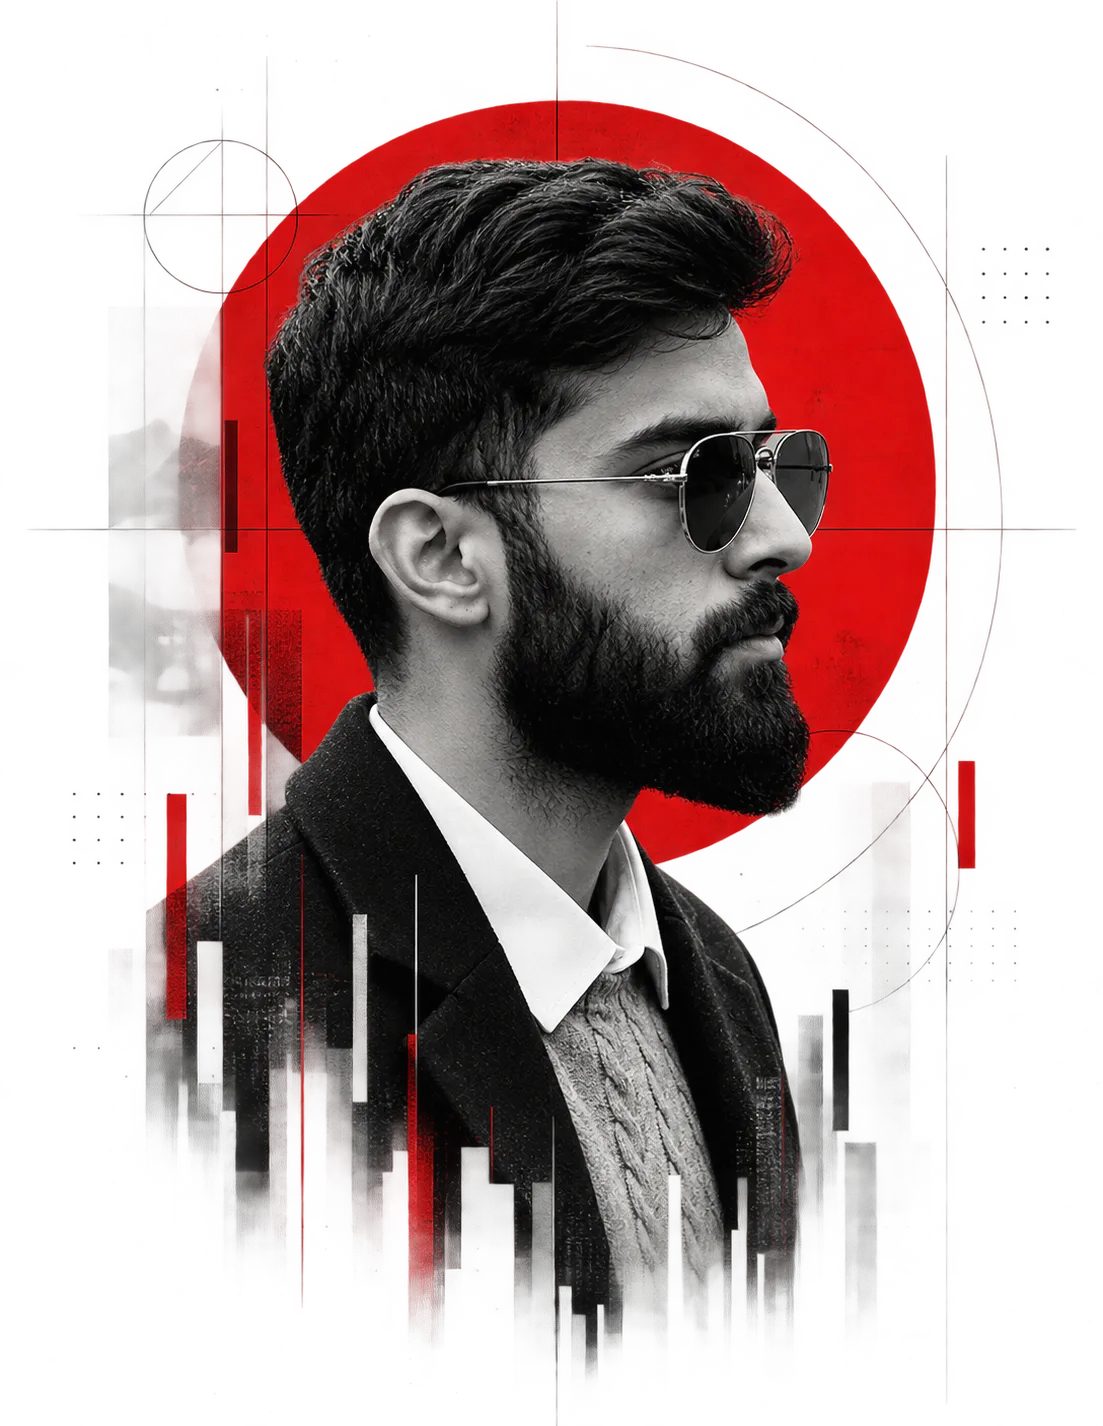
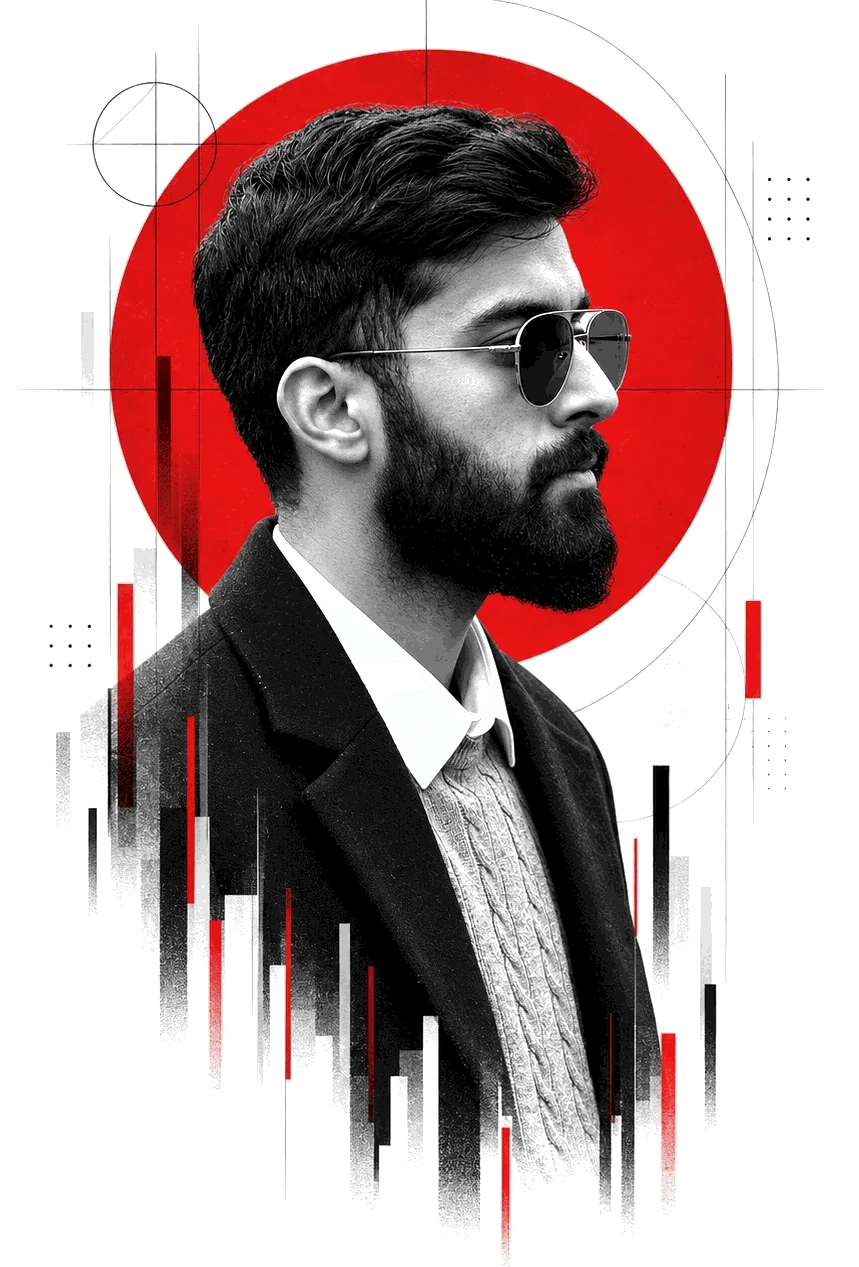
New portrait artwork, with its paper background removed
The original is kept in source/; tools/portrait.py turns the paper into
transparency (colour to alpha), crops to the figure and reports the sun's
centre, which the opening animation now starts from.

diff --git a/docs/style.css b/docs/style.css
@@ -78,7 +78,7 @@ h1, h2, h3 { margin: 0; font-weight: inherit; }
 @keyframes gather { from { opacity: 0; transform: translateX(calc(var(--o) * .5em)); } to { opacity: 1; transform: translateX(0); } }
 .credits { display: flex; flex-wrap: wrap; justify-content: center; align-items: center; gap: 6px 14px; margin-top: 18px; }
 .credits i { font-family: var(--cond); font-size: 12px; font-style: normal; color: #6B6862; }
-@media (max-width: 700px) {
+@media (max-width: 900px) {
   .credits { gap: 6px 22px; }
   .credits i { display: none; }
 }
@@ -88,7 +88,7 @@ h1, h2, h3 { margin: 0; font-weight: inherit; }
 .poster { display: flex; flex-wrap: wrap; justify-content: center; gap: 24px 16px; margin-top: 20px; }
 .poster__say { flex: 1 1 200px; display: flex; flex-direction: column; justify-content: center; align-items: flex-end; text-align: right; }
 .poster__say p { font-size: clamp(28px, 3.3vw, 49px); line-height: 1.04; font-weight: 600; letter-spacing: .04em; color: var(--red); }
-.poster__art { flex: 0 1 clamp(340px, 66vh, 590px); align-self: flex-start; position: relative; aspect-ratio: 620 / 740; }
+.poster__art { flex: 0 1 clamp(340px, 60vh, 580px); align-self: flex-start; position: relative; aspect-ratio: 620 / 740; }
 .poster__bio { flex: 1 1 200px; display: flex; flex-direction: column; justify-content: flex-end; align-items: flex-start; gap: 16px; padding-bottom: 48px; text-align: left; }
 .poster__bio p { max-width: 300px; font-size: 15px; line-height: 1.55; text-wrap: pretty; }
 .poster__year { font-size: 30px; line-height: 1; font-weight: 500; letter-spacing: .12em; color: var(--red); }
@@ -113,9 +113,9 @@ h1, h2, h3 { margin: 0; font-weight: inherit; }
 .poster__art--artwork { aspect-ratio: auto; }
 .artwork { display: block; width: 100%; height: auto; filter: saturate(.85); animation: open 3.4s cubic-bezier(.45, 0, .25, 1) .35s both; }
 /* Slow on purpose: the circle only has to reach 90% to uncover the whole picture, so none of the time is spent off-canvas. */
-@keyframes open { from { opacity: 0; clip-path: circle(0% at 52% 34%); } 35% { opacity: 1; } to { opacity: 1; clip-path: circle(90% at 52% 34%); } }
+@keyframes open { from { opacity: 0; clip-path: circle(0% at var(--fx, 50%) var(--fy, 30%)); } 35% { opacity: 1; } to { opacity: 1; clip-path: circle(95% at var(--fx, 50%) var(--fy, 30%)); } }
 /* Thin streaks that run on from the painted ones; their tops fade into the picture. */
-.poster__art--artwork .drips { left: 15%; top: 74%; width: 60%; height: 31%; justify-content: space-between; -webkit-mask-image: linear-gradient(to bottom, transparent, #000 45%); mask-image: linear-gradient(to bottom, transparent, #000 45%); }
+.poster__art--artwork .drips { left: 16%; top: 80%; width: 62%; height: 23%; justify-content: space-between; -webkit-mask-image: linear-gradient(to bottom, transparent, #000 45%); mask-image: linear-gradient(to bottom, transparent, #000 45%); }
 .poster__art--artwork .drips span { flex: 0 0 calc(var(--w) * 1.4px); animation-delay: calc(var(--d) + 2.2s), calc(var(--d) + 4s); }
 .drips .hot { background: var(--red); }
 .hero__cta { display: flex; flex-wrap: wrap; justify-content: flex-end; gap: 12px; margin-top: 20px; }

diff --git a/src/style.css b/src/style.css
@@ -78,7 +78,7 @@ h1, h2, h3 { margin: 0; font-weight: inherit; }
 @keyframes gather { from { opacity: 0; transform: translateX(calc(var(--o) * .5em)); } to { opacity: 1; transform: translateX(0); } }
 .credits { display: flex; flex-wrap: wrap; justify-content: center; align-items: center; gap: 6px 14px; margin-top: 18px; }
 .credits i { font-family: var(--cond); font-size: 12px; font-style: normal; color: #6B6862; }
-@media (max-width: 700px) {
+@media (max-width: 900px) {
   .credits { gap: 6px 22px; }
   .credits i { display: none; }
 }
@@ -88,7 +88,7 @@ h1, h2, h3 { margin: 0; font-weight: inherit; }
 .poster { display: flex; flex-wrap: wrap; justify-content: center; gap: 24px 16px; margin-top: 20px; }
 .poster__say { flex: 1 1 200px; display: flex; flex-direction: column; justify-content: center; align-items: flex-end; text-align: right; }
 .poster__say p { font-size: clamp(28px, 3.3vw, 49px); line-height: 1.04; font-weight: 600; letter-spacing: .04em; color: var(--red); }
-.poster__art { flex: 0 1 clamp(340px, 66vh, 590px); align-self: flex-start; position: relative; aspect-ratio: 620 / 740; }
+.poster__art { flex: 0 1 clamp(340px, 60vh, 580px); align-self: flex-start; position: relative; aspect-ratio: 620 / 740; }
 .poster__bio { flex: 1 1 200px; display: flex; flex-direction: column; justify-content: flex-end; align-items: flex-start; gap: 16px; padding-bottom: 48px; text-align: left; }
 .poster__bio p { max-width: 300px; font-size: 15px; line-height: 1.55; text-wrap: pretty; }
 .poster__year { font-size: 30px; line-height: 1; font-weight: 500; letter-spacing: .12em; color: var(--red); }
@@ -113,9 +113,9 @@ h1, h2, h3 { margin: 0; font-weight: inherit; }
 .poster__art--artwork { aspect-ratio: auto; }
 .artwork { display: block; width: 100%; height: auto; filter: saturate(.85); animation: open 3.4s cubic-bezier(.45, 0, .25, 1) .35s both; }
 /* Slow on purpose: the circle only has to reach 90% to uncover the whole picture, so none of the time is spent off-canvas. */
-@keyframes open { from { opacity: 0; clip-path: circle(0% at 52% 34%); } 35% { opacity: 1; } to { opacity: 1; clip-path: circle(90% at 52% 34%); } }
+@keyframes open { from { opacity: 0; clip-path: circle(0% at var(--fx, 50%) var(--fy, 30%)); } 35% { opacity: 1; } to { opacity: 1; clip-path: circle(95% at var(--fx, 50%) var(--fy, 30%)); } }
 /* Thin streaks that run on from the painted ones; their tops fade into the picture. */
-.poster__art--artwork .drips { left: 15%; top: 74%; width: 60%; height: 31%; justify-content: space-between; -webkit-mask-image: linear-gradient(to bottom, transparent, #000 45%); mask-image: linear-gradient(to bottom, transparent, #000 45%); }
+.poster__art--artwork .drips { left: 16%; top: 80%; width: 62%; height: 23%; justify-content: space-between; -webkit-mask-image: linear-gradient(to bottom, transparent, #000 45%); mask-image: linear-gradient(to bottom, transparent, #000 45%); }
 .poster__art--artwork .drips span { flex: 0 0 calc(var(--w) * 1.4px); animation-delay: calc(var(--d) + 2.2s), calc(var(--d) + 4s); }
 .drips .hot { background: var(--red); }
 .hero__cta { display: flex; flex-wrap: wrap; justify-content: flex-end; gap: 12px; margin-top: 20px; }

diff --git a/docs/index.html b/docs/index.html
@@ -55,7 +55,7 @@
 </div>
 </div>
 <div class="poster__art poster__art--artwork">
-<img class="artwork" src="/assets/portrait.webp" width="1103" height="1426" alt="Portrait of Maisam Haider">
+<img class="artwork" src="/assets/portrait.webp" width="859" height="1267" style="--fx:49%;--fy:27.6%" alt="Portrait of Maisam Haider">
 <div class="drips" aria-hidden="true"><span style="--w:3;--h:38%;--d:1.10s"></span><span class="gap" style="--w:2;--h:72%;--d:1.42s"></span><span class="hot" style="--w:4;--h:20%;--d:1.74s"></span><span class="gap" style="--w:1;--h:95%;--d:1.18s"></span><span style="--w:3;--h:55%;--d:1.50s"></span><span class="gap" style="--w:2;--h:100%;--d:1.82s"></span><span style="--w:5;--h:30%;--d:1.26s"></span><span class="gap" style="--w:1;--h:82%;--d:1.58s"></span><span style="--w:2;--h:48%;--d:1.90s"></span><span class="gap" style="--w:3;--h:64%;--d:1.34s"></span><span class="hot" style="--w:4;--h:15%;--d:1.66s"></span><span class="gap" style="--w:1;--h:90%;--d:1.10s"></span><span style="--w:3;--h:70%;--d:1.42s"></span><span class="gap" style="--w:2;--h:25%;--d:1.74s"></span><span style="--w:2;--h:58%;--d:1.18s"></span><span class="gap" style="--w:3;--h:100%;--d:1.50s"></span><span style="--w:5;--h:35%;--d:1.82s"></span><span class="gap" style="--w:1;--h:78%;--d:1.26s"></span><span class="hot" style="--w:2;--h:45%;--d:1.58s"></span><span class="gap" style="--w:3;--h:88%;--d:1.90s"></span><span style="--w:1;--h:22%;--d:1.34s"></span><span class="gap" style="--w:4;--h:60%;--d:1.66s"></span><span style="--w:2;--h:40%;--d:1.10s"></span><span class="gap" style="--w:3;--h:80%;--d:1.42s"></span><span style="--w:2;--h:52%;--d:1.74s"></span><span class="gap" style="--w:1;--h:96%;--d:1.18s"></span><span class="hot" style="--w:4;--h:28%;--d:1.50s"></span><span class="gap" style="--w:2;--h:68%;--d:1.82s"></span></div>
 </div>
 <div class="poster__bio fade" style="--d: 1.3s">

diff --git a/tools/portrait.py b/tools/portrait.py
@@ -1,0 +1,64 @@
+"""Turns a portrait artwork on a paper background into one on a transparent
+background, so it sits on the site's own paper with no visible rectangle.
+
+    python tools/portrait.py source/portrait.webp assets/portrait.webp
+
+The paper colour is read from the picture's corners. Every pixel is then split into
+"how much ink is here" (the new transparency) and the ink's own colour, the way
+colour-to-alpha works in an image editor: blacks, greys, reds and the white collar
+all keep their look, and the paper disappears. The result is cropped to what is left.
+
+Needs Pillow and NumPy. It prints the size and where the red sun's centre is; put
+those in site.json as photoSize and photoFocus.
+"""
+import sys
+import numpy as np
+from PIL import Image
+
+src, dst = sys.argv[1], sys.argv[2]
+rgb = np.asarray(Image.open(src).convert('RGB')).astype(np.float64) / 255.0
+h, w = rgb.shape[:2]
+
+# Paper = the average of the four corners.
+k = 60
+corners = np.concatenate([rgb[:k, :k], rgb[:k, -k:], rgb[-k:, :k], rgb[-k:, -k:]]).reshape(-1, 3)
+paper = corners.mean(axis=0)
+
+# Colour to alpha, channel by channel, taking the strongest claim.
+darker = np.where(rgb < paper, (paper - rgb) / paper, 0.0)
+lighter = np.where(rgb > paper, (rgb - paper) / (1.0 - paper), 0.0)
+alpha = np.maximum(darker, lighter).max(axis=2)
+
+# The paper has a faint grain; anything that weak is paper, not ink.
+floor = 0.09
+alpha = np.clip((alpha - floor) / (1.0 - floor), 0.0, 1.0)
+
+# The colour that, laid over the paper at this alpha, gives back the original pixel.
+safe = np.maximum(alpha, 1e-6)[..., None]
+ink = np.clip((rgb - (1.0 - safe) * paper) / safe, 0.0, 1.0)
+
+out = np.dstack([ink, alpha])
+# Crop to the rows and columns that really hold ink (a stray speck does not count).
+# A hairline that runs out past the picture is allowed to be cut by the margin.
+solid = alpha > 0.5
+ys = np.where(solid.sum(axis=1) >= 12)[0]
+xs = np.where(solid.sum(axis=0) >= 12)[0]
+pad = 48
+top, bottom = max(ys.min() - pad, 0), min(ys.max() + pad, h - 1)
+left, right = max(xs.min() - pad, 0), min(xs.max() + pad, w - 1)
+out = out[top:bottom + 1, left:right + 1]
+
+# Where the sun is: the centre of the strongly red area in the upper two thirds.
+r, g, b = out[..., 0], out[..., 1], out[..., 2]
+red = (r > 0.7) & (g < 0.25) & (b < 0.25) & (out[..., 3] > 0.8)
+red[int(out.shape[0] * 0.62):] = False
+ry, rx = np.where(red)
+cols = np.where(red.sum(axis=0) > 0.25 * red.sum(axis=0).max())[0]
+rows = np.where(red.sum(axis=1) > 0.25 * red.sum(axis=1).max())[0]
+fx = (cols.min() + cols.max()) / 2 / out.shape[1] * 100
+fy = (rows.min() + rows.max()) / 2 / out.shape[0] * 100
+
+Image.fromarray((out * 255).round().astype(np.uint8), 'RGBA').save(dst, 'WEBP', quality=78, alpha_quality=60, method=6)
+print('paper', (paper * 255).round(1))
+print('photoSize', [out.shape[1], out.shape[0]])
+print('photoFocus', [round(float(fx), 1), round(float(fy), 1)])

diff --git a/README.md b/README.md
@@ -37,6 +37,17 @@ by hand: it is rebuilt from scratch every run.
 
 ## Photo and CV
 
-Put the files in `assets/` and name them in `site.json` (`"photo": "portrait.png"`,
-`"cv": "cv.pdf"`). The portrait should be a cut-out with a transparent background;
-the page turns it black and white.
+Put the files in `assets/` and name them in `site.json` (`"photo": "portrait.webp"`,
+`"cv": "cv.pdf"`).
+
+The portrait is a finished artwork (`"photoStyle": "artwork"`). The original, on its paper
+background, is kept in `source/portrait.webp`; `tools/portrait.py` removes the paper so the
+picture sits on the site's own background, and prints the `photoSize` and `photoFocus` values
+for `site.json`:
+
+```
+python tools/portrait.py source/portrait.webp assets/portrait.webp
+```
+
+(It needs Pillow and NumPy.) A plain cut-out of a person on a transparent background can be
+used instead with `"photoStyle": "cutout"`; the page then draws the red sun and lines itself.
